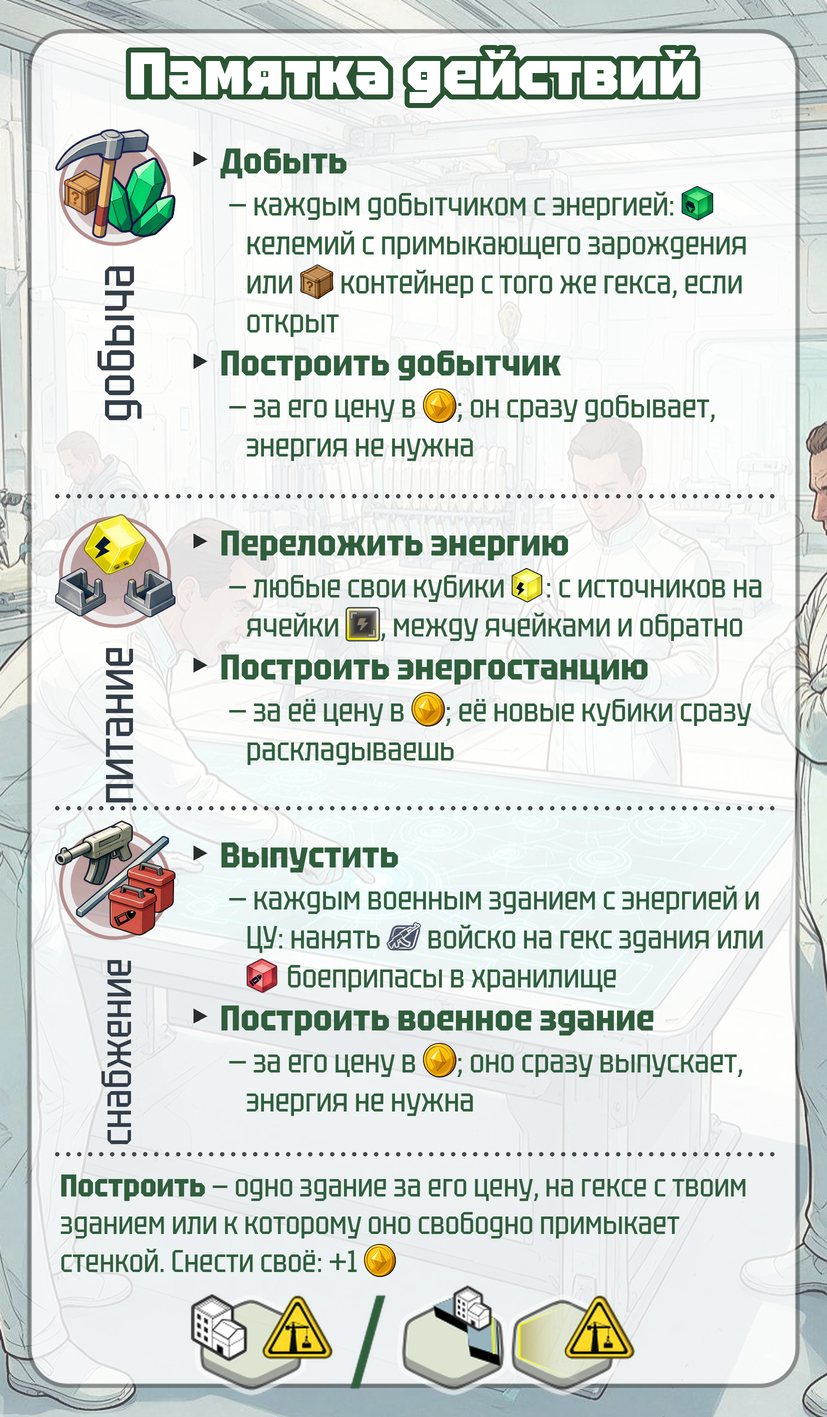
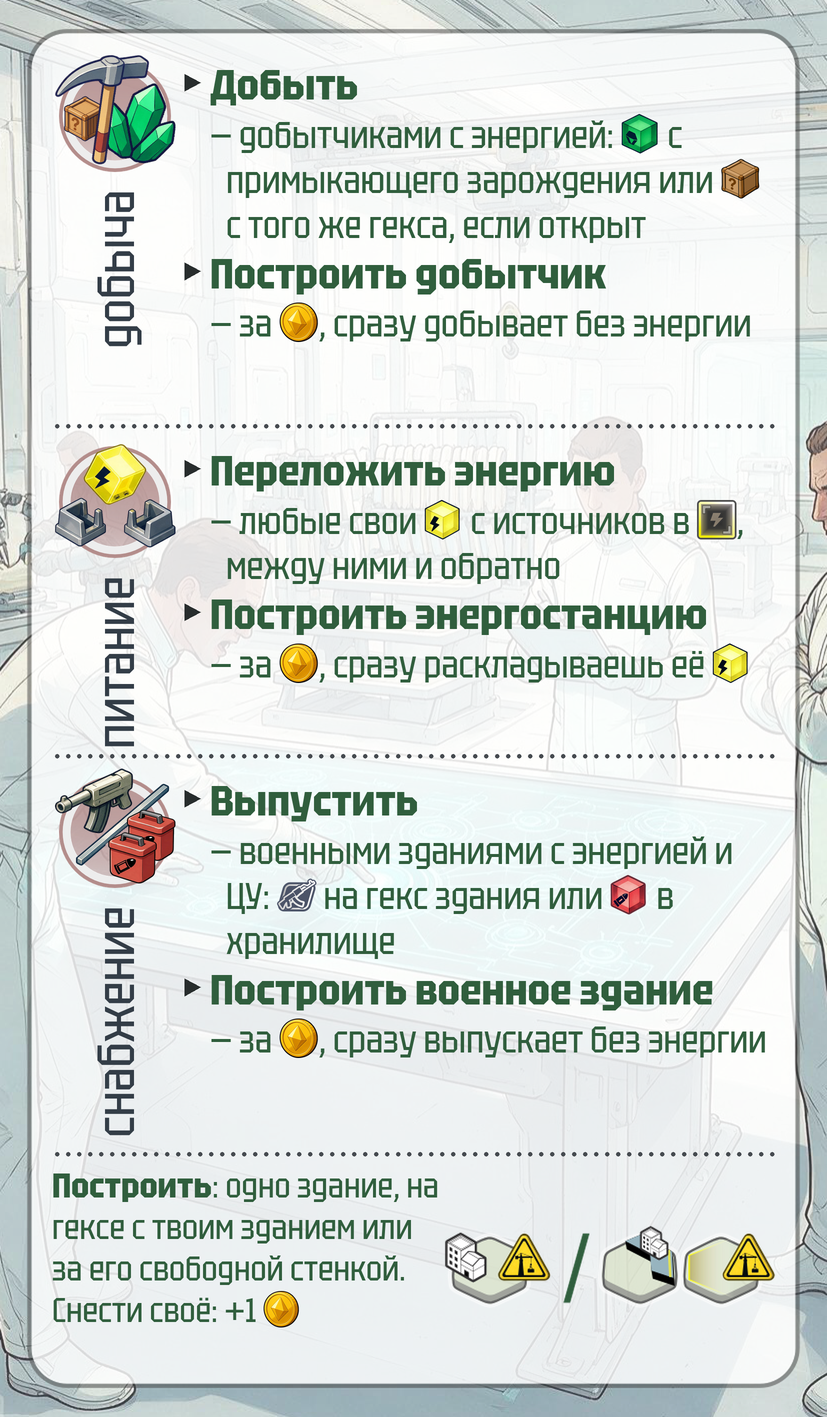
Памятка действий 5.0: без заголовка, текст крупнее (9,5–10,5 pt), всё внутри рамки шаблона

Changed region(s): [[0.0605, 0.0311, 0.9371, 0.9936]]

diff --git a/tools/gen_memo_5.py b/tools/gen_memo_5.py
@@ -148,7 +148,7 @@ def пунктир(d, y, x0=55, x1=775):
         x += 11 * K
 
 
-def раздел(холст, y0, y1, иконка, подпись, строки, р=34):
+def раздел(холст, y0, y1, иконка, подпись, строки, р=40):
     """Левая колонка: кружок и вертикальная подпись; справа — строки."""
     d = ImageDraw.Draw(холст)
     # кружок действия
@@ -170,19 +170,20 @@ def раздел(холст, y0, y1, иконка, подпись, строки,
     холст.alpha_composite(лист, (round(cx * K - лист.width / 2),
                                  round((cy + r + 14) * K)))
     # текст
-    y = y0 + 20
-    x = 188
+    y = y0 + 14
+    x = 180
+    права = 775                       # внутренний край рамки шаблона (797) с полем
     for вид, части in строки:
         if вид == 'заг':
-            y += абзац(холст, x, y, 590, части, р) + 4
+            y += абзац(холст, x, y, права - x, части, р) + 4
         elif вид == 'ветка':
             треугольник(d, x + 12, y + р * 0.62, р)
-            y += абзац(холст, x + 32, y, 560, части, р + 2) + 2
+            y += абзац(холст, x + 30, y, права - x - 30, части, р + 2) + 2
         elif вид == 'под':
-            y += абзац(холст, x + 40, y, 552, части, р - 2, отступ2=18)
+            y += абзац(холст, x + 30, y, права - x - 30, части, р - 3, отступ2=16)
         elif вид == 'прим':
             y += 6
-            y += абзац(холст, x, y, 590, части, р - 3)
+            y += абзац(холст, x, y, права - x, части, р - 4)
         elif вид == 'зазор':
             y += части
     return y
@@ -204,36 +205,34 @@ def карточка_1():
     осн = Image.open(ШАБЛОН).convert('RGBA')
     W, H = осн.size
     холст = осн.resize((W * K, H * K), Image.LANCZOS)
-    заголовок(холст, 'Памятка действий')
     d = ImageDraw.Draw(холст)
     разделы = [
         ('extract', 'добыча', [
             ('ветка', [('ж', 'Добыть')]),
-            ('под', [('т', '− каждым добытчиком с энергией: '), ('и', 'kelium'),
-                     ('т', ' келемий с примыкающего зарождения или '), ('и', 'container'),
-                     ('т', ' контейнер с того же гекса, если открыт')]),
+            ('под', [('т', '− добытчиками с энергией: '), ('и', 'kelium'),
+                     ('т', ' с примыкающего зарождения или '), ('и', 'container'),
+                     ('т', ' с того же гекса, если открыт')]),
             ('ветка', [('ж', 'Построить добытчик')]),
-            ('под', [('т', '− за его цену в '), ('и', 'coin'), ('т', '; он сразу добывает, энергия не нужна')]),
+            ('под', [('т', '− за '), ('и', 'coin'), ('т', ', сразу добывает без энергии')]),
         ]),
         ('power', 'питание', [
             ('ветка', [('ж', 'Переложить энергию')]),
-            ('под', [('т', '− любые свои кубики '), ('и', 'energy'),
-                     ('т', ': с источников на ячейки '), ('и', 'energy_cell'),
-                     ('т', ', между ячейками и обратно')]),
+            ('под', [('т', '− любые свои '), ('и', 'energy'),
+                     ('т', ' с источников в '), ('и', 'energy_cell'),
+                     ('т', ', между ними и обратно')]),
             ('ветка', [('ж', 'Построить энергостанцию')]),
-            ('под', [('т', '− за её цену в '), ('и', 'coin'), ('т', '; её новые кубики сразу раскладываешь')]),
+            ('под', [('т', '− за '), ('и', 'coin'), ('т', ', сразу раскладываешь её '), ('и', 'energy')]),
         ]),
         ('supply', 'снабжение', [
             ('ветка', [('ж', 'Выпустить')]),
-            ('под', [('т', '− каждым военным зданием с энергией и ЦУ: нанять '), ('и', 'unit'),
-                     ('т', ' войско на гекс здания или '), ('и', 'ammo'),
-                     ('т', ' боеприпасы в хранилище')]),
+            ('под', [('т', '− военными зданиями с энергией и ЦУ: '), ('и', 'unit'),
+                     ('т', ' на гекс здания или '), ('и', 'ammo'), ('т', ' в хранилище')]),
             ('ветка', [('ж', 'Построить военное здание')]),
-            ('под', [('т', '− за его цену в '), ('и', 'coin'), ('т', '; оно сразу выпускает, энергия не нужна')]),
+            ('под', [('т', '− за '), ('и', 'coin'), ('т', ', сразу выпускает без энергии')]),
         ]),
     ]
     # высота разделов — по объёму текста
-    границы = [118, 500, 812, 1150]
+    границы = [44, 430, 760, 1150]
     низ = границы[-1]
     for i, (ик, подп, стр) in enumerate(разделы):
         раздел(холст, границы[i], границы[i + 1] - 8, ик, подп, стр)
@@ -241,11 +240,13 @@ def карточка_1():
             пунктир(d, границы[i + 1] - 4)
     # общая строка о стройке и схема зоны стройки дизайнера (иконка 76)
     пунктир(d, низ + 4)
-    h = абзац(холст, 60, низ + 16, 710, [
-        ('ж', 'Построить'), ('т', ' — одно здание за его цену, на гексе с твоим зданием или '
-         'к которому оно свободно примыкает стенкой. Снести своё: +1 '), ('и', 'coin')], 31)
-    зона = вписать(икона('build_zone'), 520 * K, 110 * K)
-    холст.alpha_composite(зона, (round(413 * K - зона.width / 2), round((низ + 22 + h) * K)))
+    # текст слева, схема зоны — справа от него, всё внутри рамки (30..797 × 30..1386)
+    h = абзац(холст, 52, низ + 14, 390, [
+        ('ж', 'Построить'), ('т', ': одно здание, на гексе с твоим зданием или за его '
+         'свободной стенкой. Снести своё: +1 '), ('и', 'coin')], 34)
+    зона = вписать(икона('build_zone'), 330 * K, (1376 - низ - 20) * K)
+    холст.alpha_composite(зона, (round(775 * K - зона.width),
+                                 round(((низ + 1376) / 2 + 4) * K - зона.height / 2)))
     return холст.resize((W, H), Image.LANCZOS).convert('RGB')
 
 
@@ -253,38 +254,35 @@ def карточка_2():
     осн = Image.open(ШАБЛОН).convert('RGBA')
     W, H = осн.size
     холст = осн.resize((W * K, H * K), Image.LANCZOS)
-    заголовок(холст, 'Памятка действий')
     d = ImageDraw.Draw(холст)
     разделы = [
         ('command', 'командование', [
             ('ветка', [('ж', 'Манёвр'), ('т', ' — выбери 1 гекс:')]),
-            ('под', [('т', '− выведи оттуда войска, затем введи туда — каждое не дальше своей скорости')]),
-            ('прим', [('т', 'Нельзя: сквозь стенку чужого здания; через гекс с чужими '
-                           'наземными войсками')]),
+            ('под', [('т', '− выведи оттуда, затем введи туда войска, каждое не дальше скорости')]),
+            ('прим', [('т', 'Нельзя сквозь стенку чужого здания и через гекс с чужими войсками')]),
             ('зазор', 14),
             ('ветка', [('ж', 'Бой'), ('т', ' — выбери гекс-цель:')]),
-            ('под', [('т', '− каждое твоё войско с соседних гексов делает по одной атаке '
-                           '(по планшету войск), платишь '), ('и', 'ammo'), ('т', ' боеприпасами')]),
-            ('прим', [('т', 'Здания закрывают собой войска от наземных атак')]),
+            ('под', [('т', '− твои войска с соседних гексов бьют по одной атаке за '), ('и', 'ammo')]),
+            ('прим', [('т', 'Здания закрывают войска от наземных атак')]),
         ]),
         ('develop', 'развитие', [
             ('ветка', [('ж', 'Рынок'), ('т', ' — сдай '), ('и', 'kelium'), ('т', ' келемий:')]),
             ('под', [('т', '− монеты 1/3/7 '), ('и', 'coin'), ('т', ' за 0/1/2 келемия')]),
-            ('под', [('т', '− или 1 карту '), ('и', 'objective'), ('т', ' задания из 2 вытянутых')]),
-            ('под', [('т', '− или одно предложение с карты рынка')]),
+            ('под', [('т', '− или '), ('и', 'objective'), ('т', ' 1 из 2 вытянутых')]),
+            ('под', [('т', '− или предложение с карты рынка')]),
             ('зазор', 14),
             ('ветка', [('ж', 'Наука'), ('т', ' — сдай '), ('и', 'gear'), ('т', ' / '),
                        ('и', 'trophy'), ('т', ' / '), ('и', 'kelium'), ('т', ':')]),
-            ('под', [('т', '− шаг на '), ('ж', 'одном'), ('т', ' треке, по порядку с 1-го шага')]),
-            ('под', [('т', '− только за '), ('и', 'gear'), ('т', ' / '), ('и', 'trophy'),
-                     ('т', ': карта арсенала, улучшить или переместить модуль')]),
+            ('под', [('т', '− шаг на '), ('ж', 'одном'), ('т', ' треке, по порядку')]),
+            ('под', [('т', '− за '), ('и', 'gear'), ('т', ' / '), ('и', 'trophy'),
+                     ('т', ': арсенал, улучшить или сдвинуть модуль')]),
         ]),
     ]
     # Командованию — больше места: у него две ветки с оговорками
-    верх, граница, низ = 118, 800, 1380
-    раздел(холст, верх, граница - 8, разделы[0][0], разделы[0][1], разделы[0][2], р=36)
+    верх, граница, низ = 44, 730, 1380
+    раздел(холст, верх, граница - 8, разделы[0][0], разделы[0][1], разделы[0][2], р=44)
     пунктир(d, граница - 4)
-    раздел(холст, граница, низ, разделы[1][0], разделы[1][1], разделы[1][2], р=36)
+    раздел(холст, граница, низ, разделы[1][0], разделы[1][1], разделы[1][2], р=44)
     return холст.resize((W, H), Image.LANCZOS).convert('RGB')
 
 
